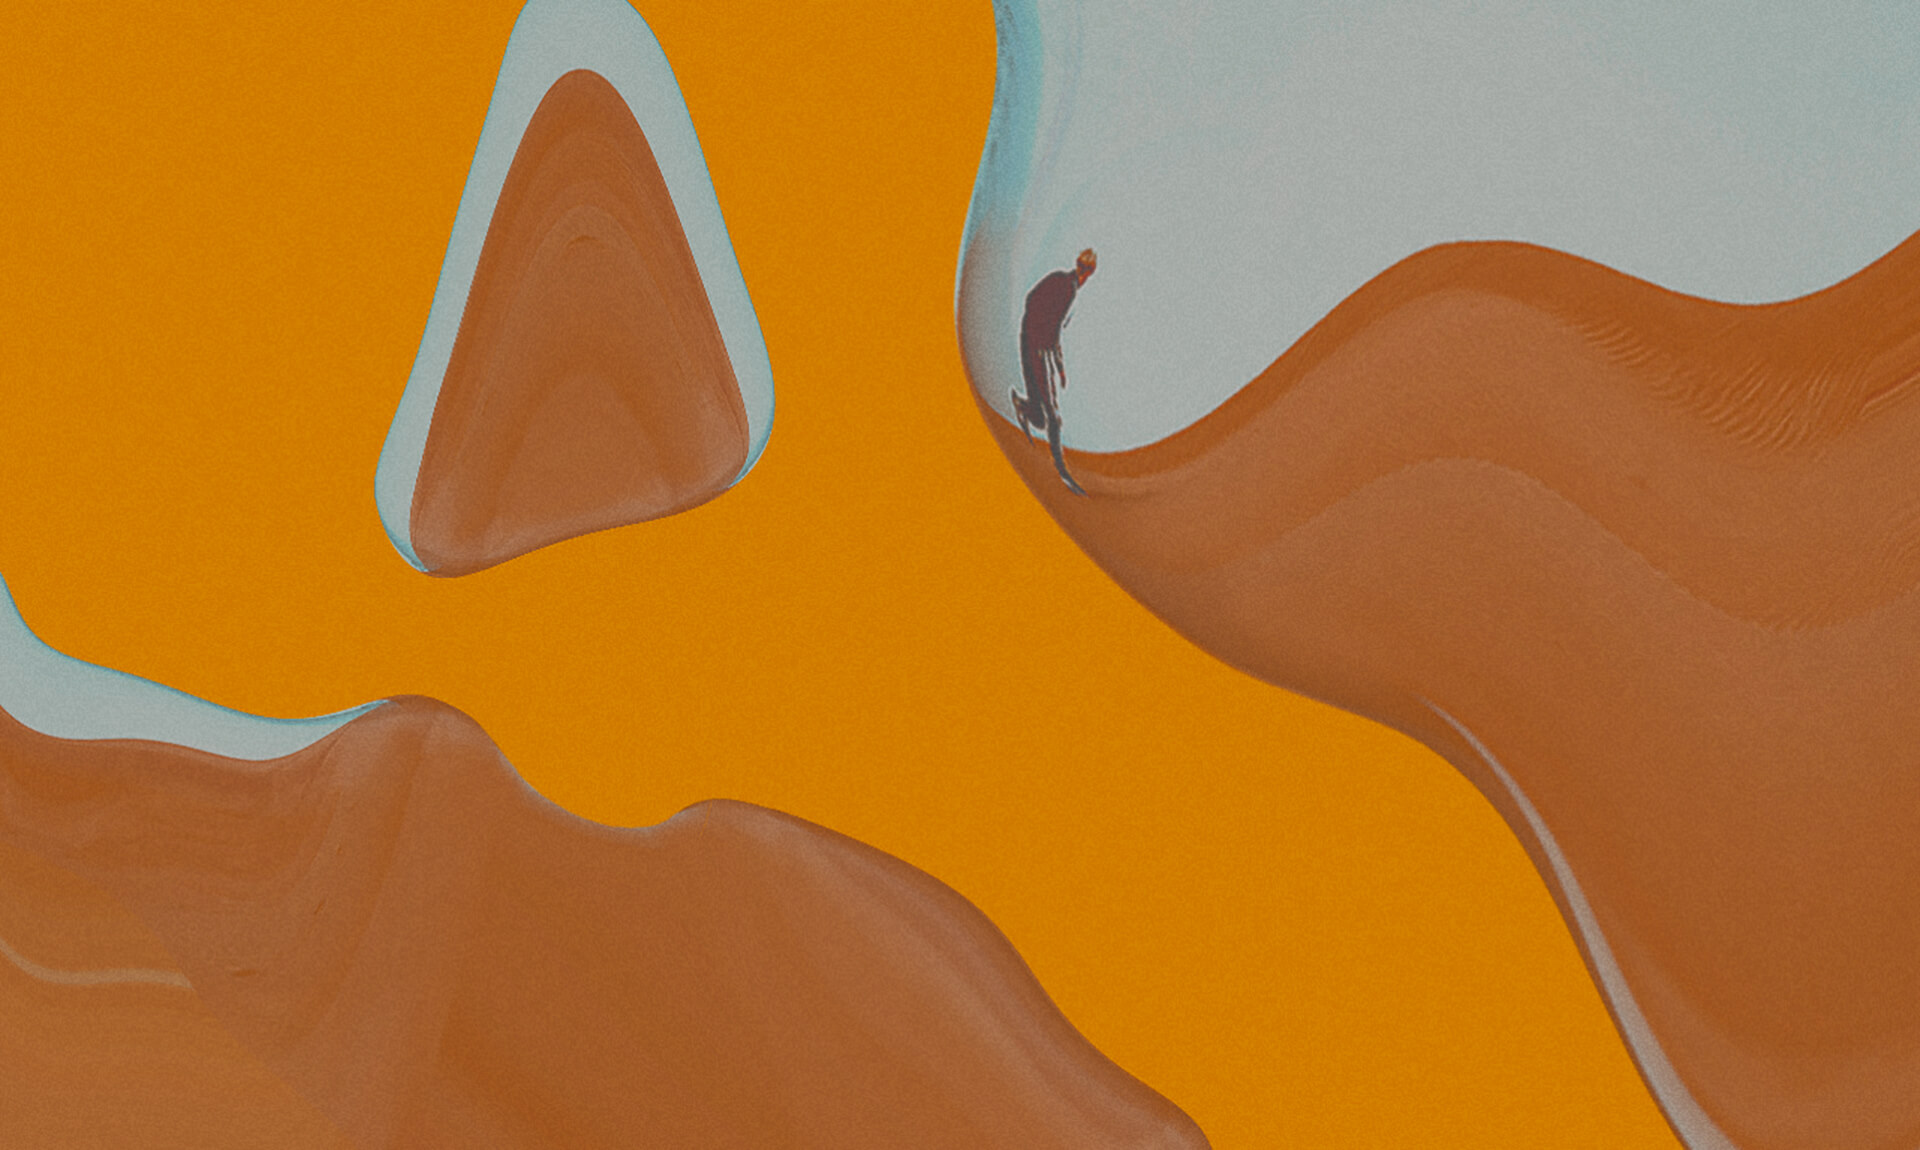
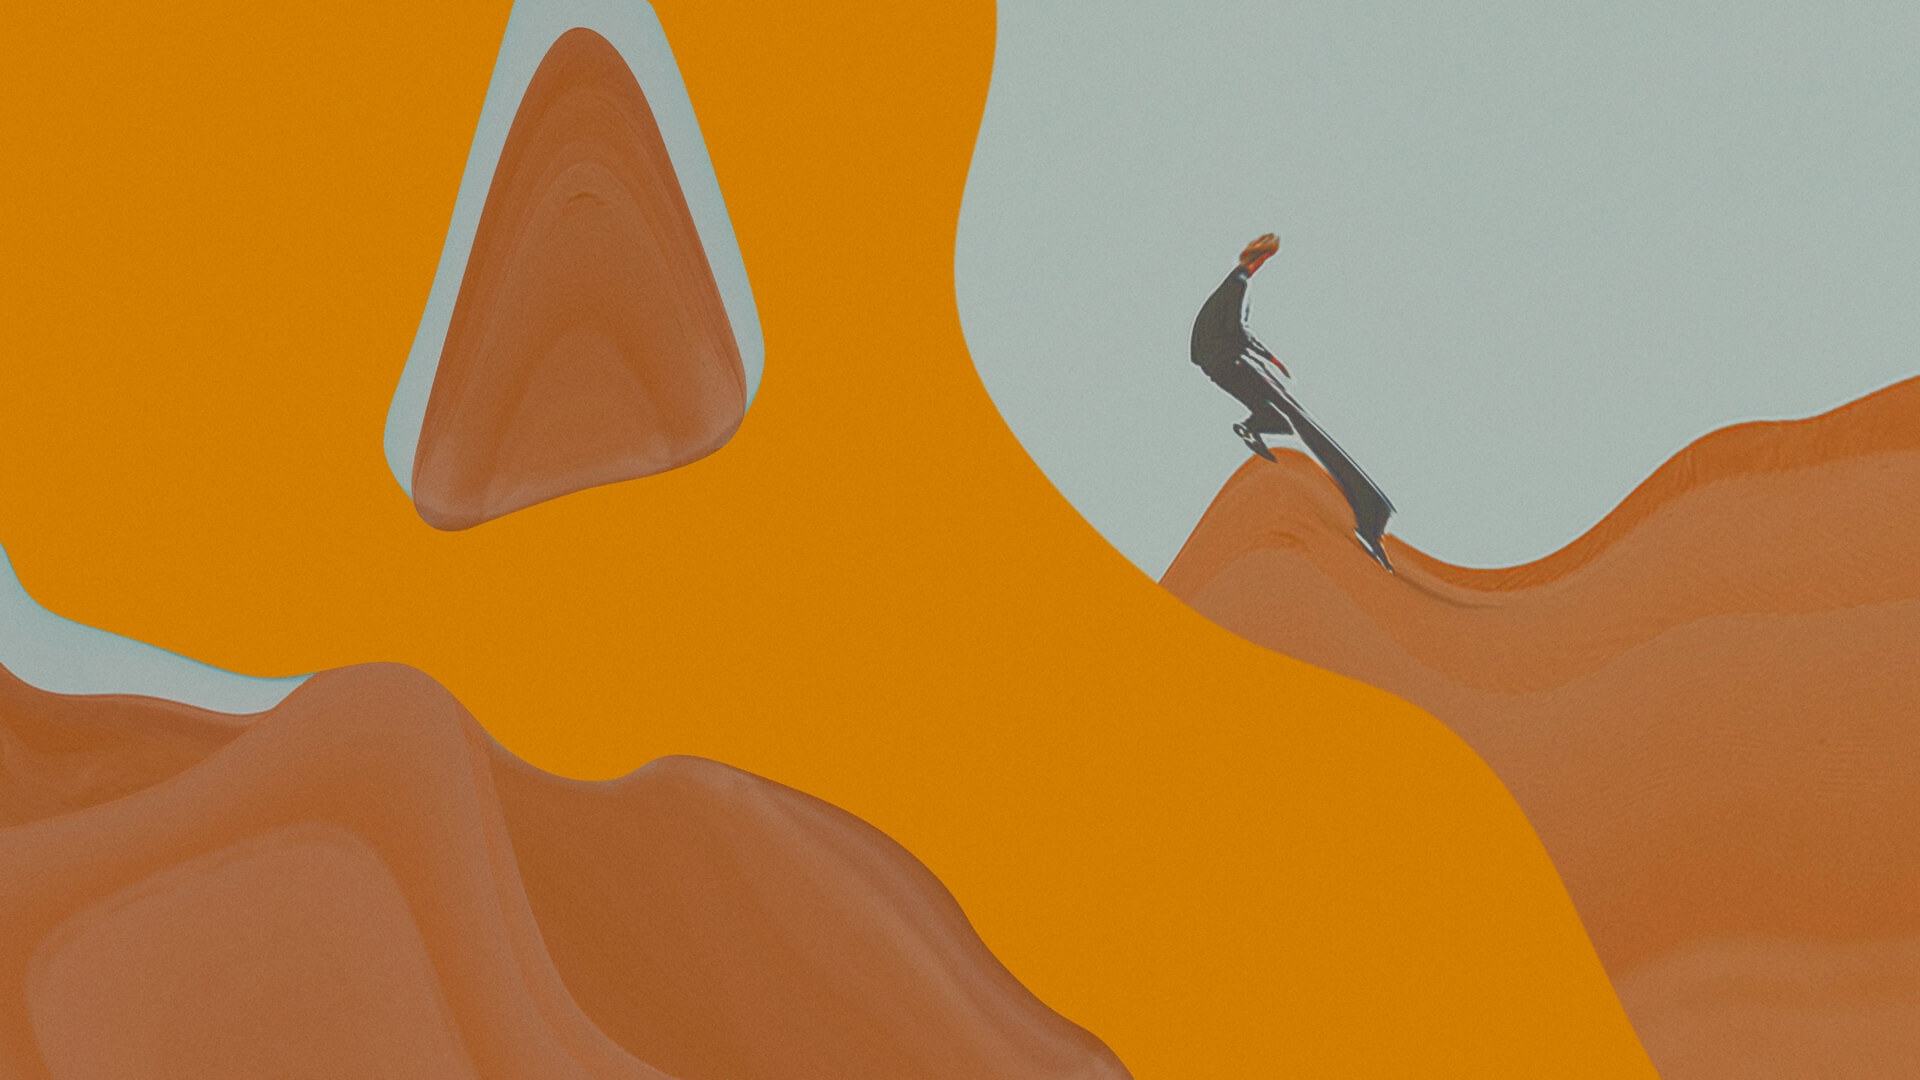
Updated home shader. Thanks after email UI: removed twitter link. Removed unused assets in img folder.

diff --git a/dev/scss/views/_thanks.scss b/dev/scss/views/_thanks.scss
@@ -45,7 +45,16 @@
 		flex-direction: row;
 		justify-content: space-between;
 		padding-right: getvwmob(6vw);
-		width: 88.57%;
+		// width: 88.57%;
+		width: 54.57%;
+
+		@media(min-width: 768px){
+			padding: 0;
+			// width: 32.23%;
+			width: 18%;
+			float: right;
+		}
+
 		.social-link{
 			height: getvwmob(18vw);
 			padding: 0;
@@ -70,12 +79,6 @@
 					fill: $cream;
 				}
 			}
-		}
-
-		@media(min-width: 768px){
-			padding: 0;
-			width: 32.23%;
-			float: right;
 		}
 	}
 }

diff --git a/dev/js/initialize.js b/dev/js/initialize.js
@@ -9,6 +9,7 @@ document.addEventListener('DOMContentLoaded', function() {
 
 	// Flag to determine if shader will be created or not
 	if (Page_Shader && deviceDetector.device == "desktop") {
+	// if (Page_Shader) {
 		var spriteImages = document.querySelectorAll('.shader-img');
 		var spriteImagesSrc = [];
 
